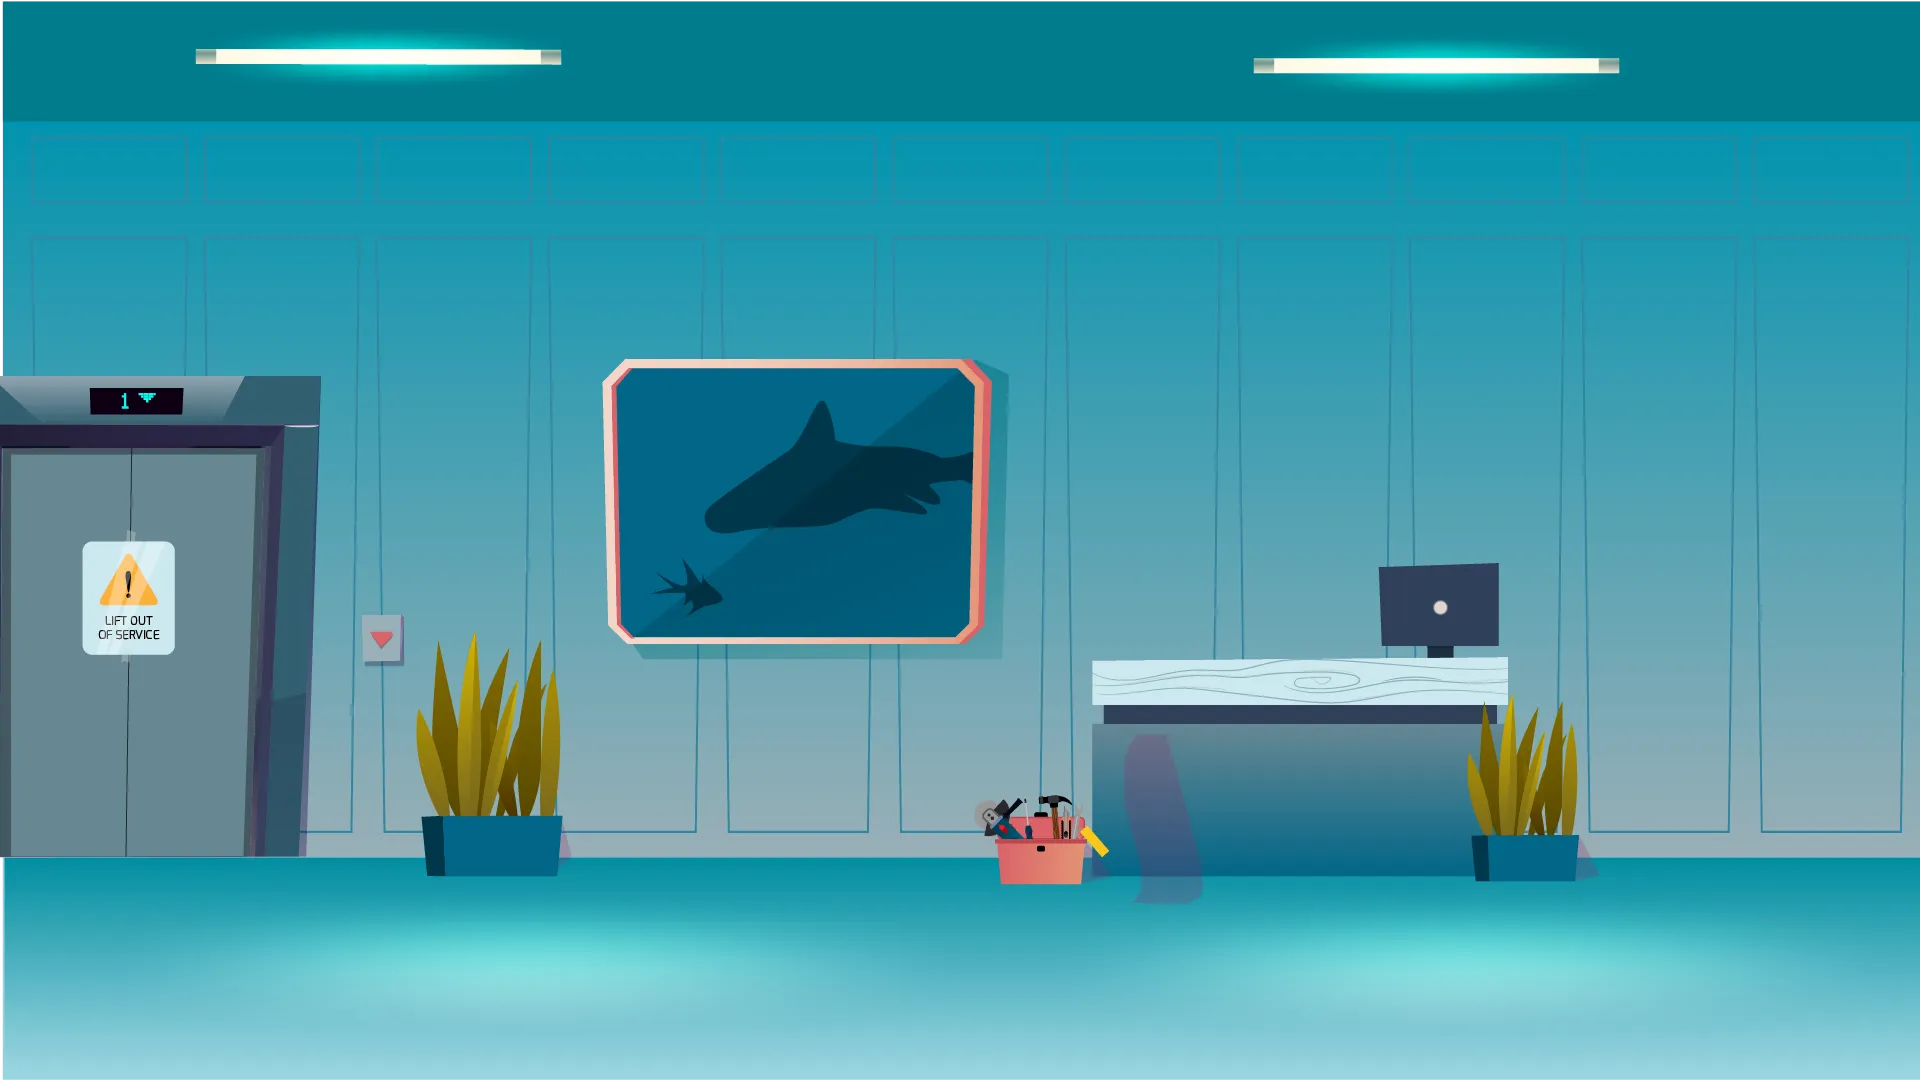
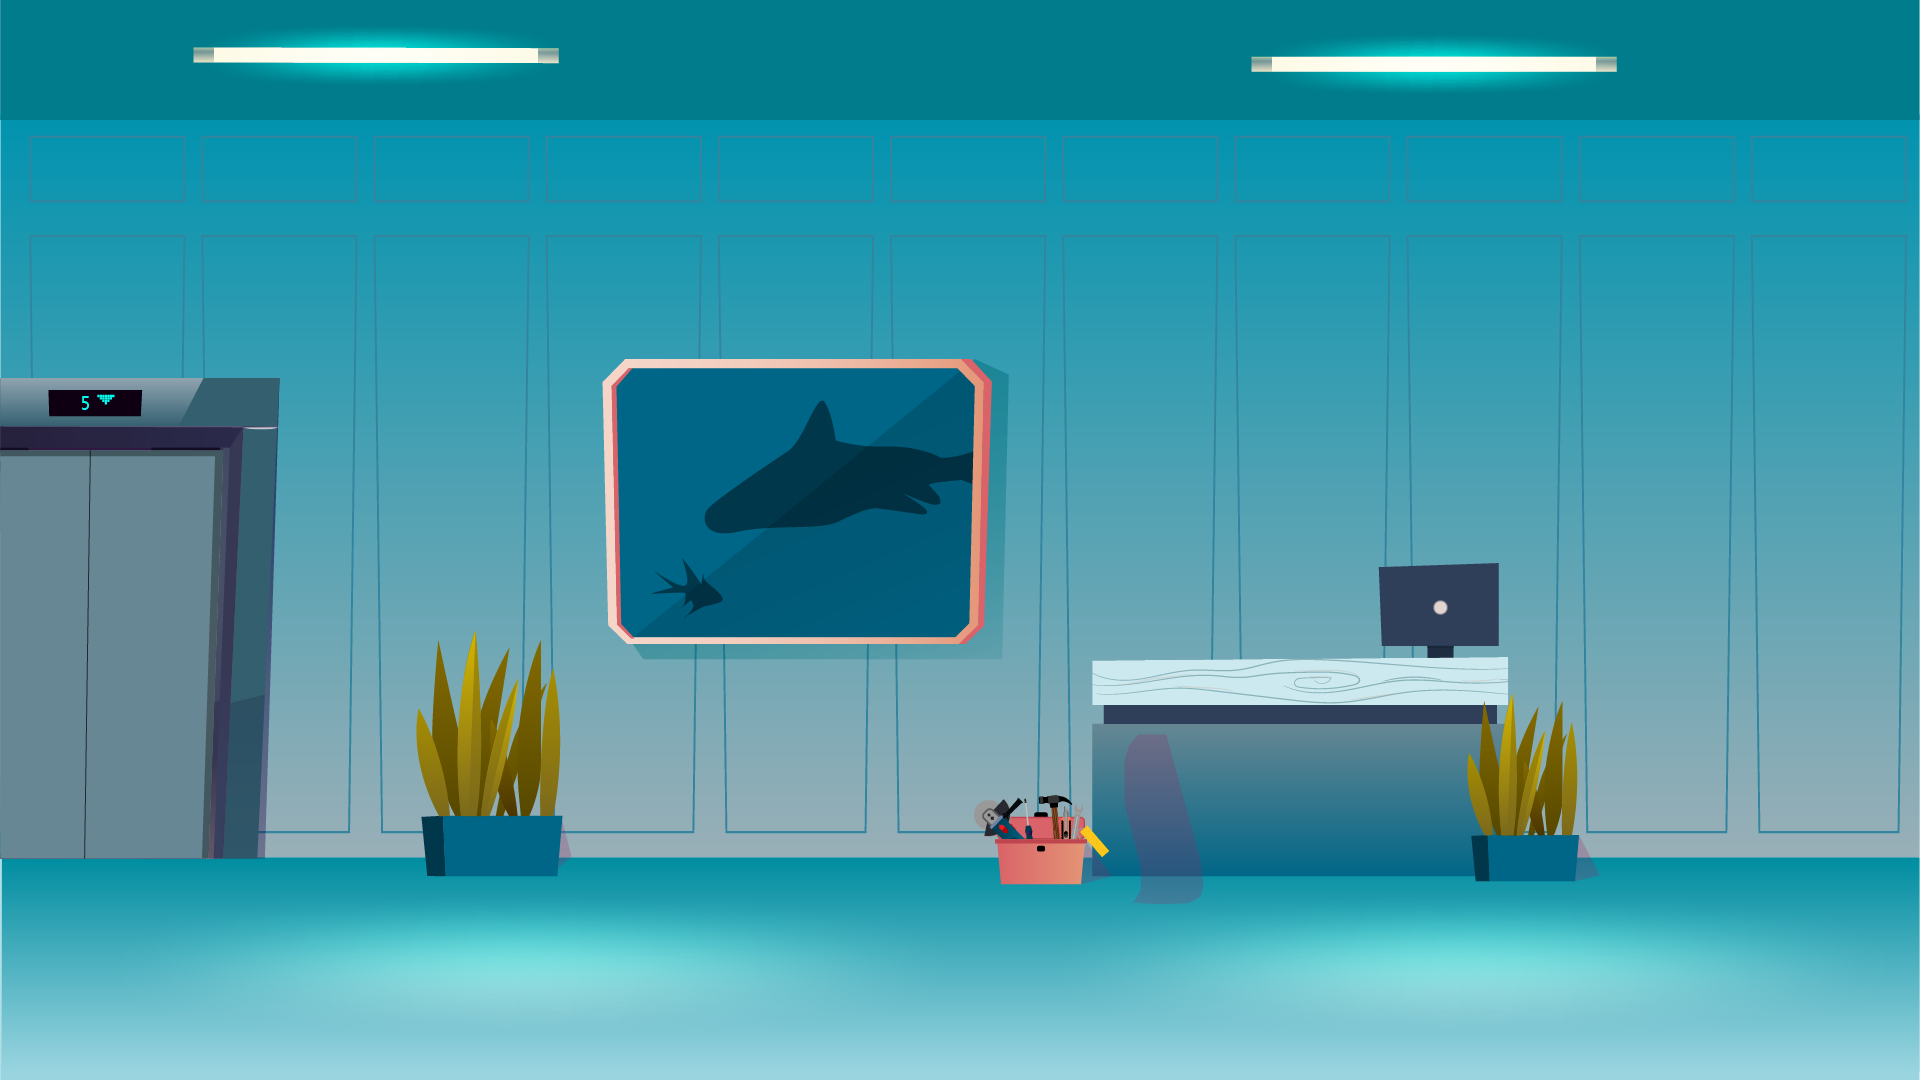
updates on player three

diff --git a/playerthree/playerthree.js b/playerthree/playerthree.js
@@ -116,7 +116,7 @@ var guideAct01 = [
   //7
   "It won't budge..",
   //8
-  "Mr.blablablablabla",
+  "'The Professor.'",
 
   //9
   "What're you doing here?",
@@ -151,7 +151,9 @@ var guideAct01 = [
   //29
   "Huh. Weird looking battery.",
   //30
-  "What does this button do?"
+  "What does this button do?",
+  //31
+  "The mechanic said to not use the elevator.."
 ];
 
 var guideArray = [];
@@ -231,7 +233,8 @@ $(".gameHUD .chatBox").click(function () {
       guideZ == 27 ||
       guideZ == 28 ||
       guideZ == 29 ||
-      guideZ == 30
+      guideZ == 30 ||
+      guideZ == 31
     ) {
       closeChatbox();
       closeUniversal();
@@ -375,6 +378,7 @@ $(".mechanicDoorBG .btnDown").click(function () {
 
 var mechanicdoorlock = 0;
 $(".mechanicDoorBG .mechanicDoorLock").click(function () {
+  $(".checkPlayerthree").load("checkPlayerthree.php");
   if (mechanickeycard != 1) {
     chatArrayIndex = 24;
     clickTrusChatPopUp(chatArrayIndex);
@@ -385,6 +389,7 @@ $(".mechanicDoorBG .mechanicDoorLock").click(function () {
   }
 });
 $(".mechanicDoorBG .mechanicOfficeDoor").click(function () {
+  $(".checkPlayerthree").load("checkPlayerthree.php");
   if (mechanicdoorlock != 1) {
     chatArrayIndex = 26;
     clickTrusChatPopUp(chatArrayIndex);
@@ -408,6 +413,7 @@ $(".mechanicOfficeBG .btnDown").click(function () {
 });
 var glassesbox = 0;
 $(".mechanicOfficeBG .btnGlassesBox").click(function () {
+  $(".checkPlayerthree").load("checkPlayerthree.php");
   $(".mechanicOfficeBG .btnGlassesBox").css("display", "none");
   acquiredItem = "url(../playerthree/img/itemglassesbox.webp)";
   glassesbox = 1;
@@ -440,6 +446,7 @@ $(".mechanicWorkshopDoorBG .btnAndroidIpad").click(function () {
 
 var androidipadlock = 0;
 $(".mechanicWorkshopDoorBG .mechanicWorkshopDoor").click(function () {
+  $(".checkPlayerthree").load("checkPlayerthree.php");
   if (androidipadlock == 1) {
     hide = ".mechanicWorkshopDoorBG";
     show = ".mechanicWorkshopBG";
@@ -511,6 +518,7 @@ $(".mechanicWorkshopBG .btnDown").click(function () {
 });
 var workshoppowercell = 0;
 $(".mechanicWorkshopBG .btnWorkshopPowercell").click(function () {
+  $(".checkPlayerthree").load("checkPlayerthree.php");
   $(".mechanicWorkshopBG .btnWorkshopPowercell").css("display", "none");
   acquiredItem = "url(../playerthree/img/itempowercellworkshop.webp)";
   workshoppowercell = 1;
@@ -542,6 +550,7 @@ $(".gate05fBG .btnGate").click(function () {
       // show = ".outsideLab";
       // changeBG(hide, show);
     } else {
+      $(".checkPlayerthree").load("checkPlayerthree.php");
       chatArrayIndex = 29;
       clickTrusChatPopUp(chatArrayIndex);
     }
@@ -632,6 +641,11 @@ $(".lobbyReceptionistBG .btnMechanic").click(function () {
     chatArrayIndex = 20;
     clickTrusChatPopUp(chatArrayIndex);
   }
+});
+$(".lobbyReceptionistBG .btnLift").click(function () {
+  $(".checkPlayerthree").load("checkPlayerthree.php");
+  chatArrayIndex = 30;
+  clickTrusChatPopUp(chatArrayIndex);
 });
 $(".lobbyReceptionistBG .btnLeft").click(function () {
   hide = ".lobbyReceptionistBG";

diff --git a/playerthree/playerthree.css b/playerthree/playerthree.css
@@ -1233,6 +1233,24 @@ centering {
   background-size: 100%;
   background-position: center top;
 }
+.lobbyReceptionistBG .btnLift {
+  cursor: pointer;
+  top: 100px;
+  bottom: 0;
+  left: 200px;
+  text-align: center;
+  margin: auto 0;
+  width: 35px;
+  height: 45px;
+  position: absolute;
+  background-image: url(../playerthree/img/lobbyliftbtn.webp);
+  background-repeat: no-repeat;
+  background-size: 100%;
+  background-position: center top;
+}
+.lobbyReceptionistBG .btnLift:hover {
+  background-image: url(../playerthree/img/lobbyliftbtnhl.webp);
+}
 
 .btnMechanic {
   cursor: pointer;

diff --git a/playerthree/playerthree.html b/playerthree/playerthree.html
@@ -103,6 +103,7 @@
                 <div class="btnRight"></div>
             </div>
             <div class="lobbyReceptionistBG">
+                <div class="btnLift"></div>
                 <div class="btnMechanic"></div>
                 <div class="btnLeft"></div>
                 <div class="btnRight"></div>
